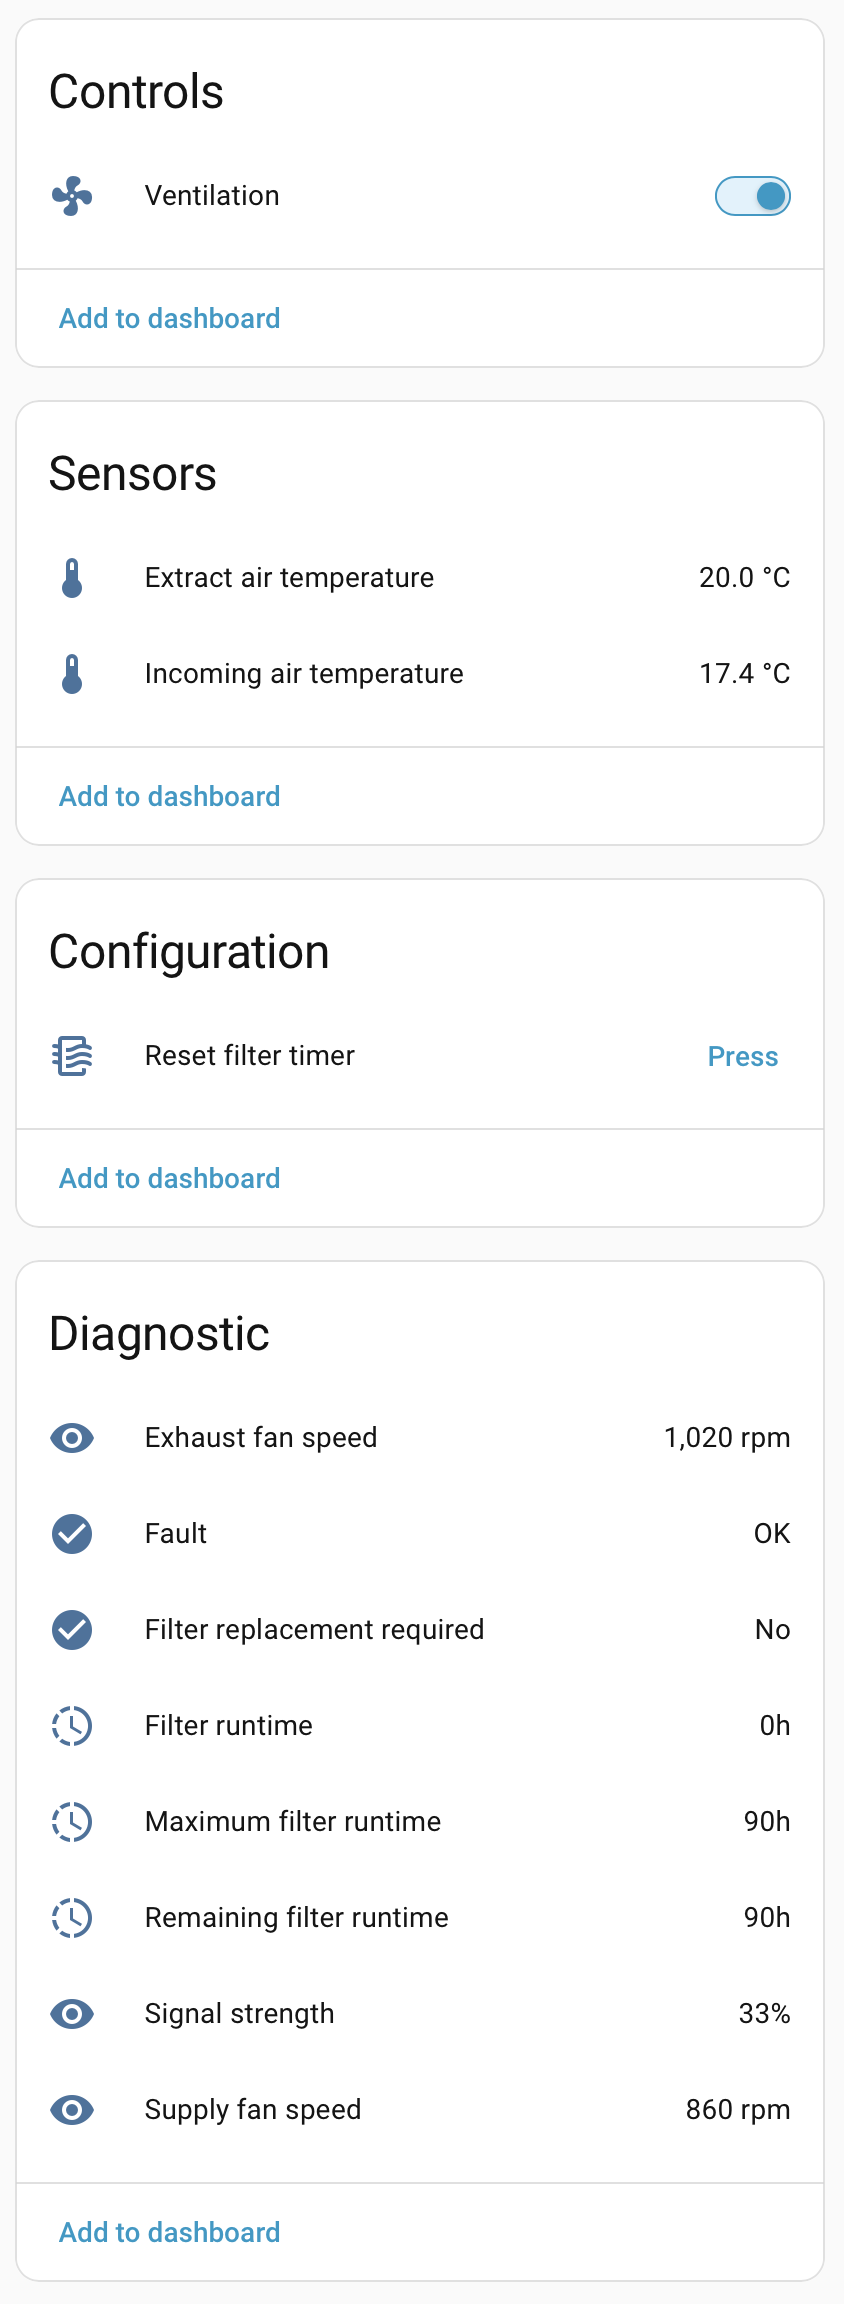
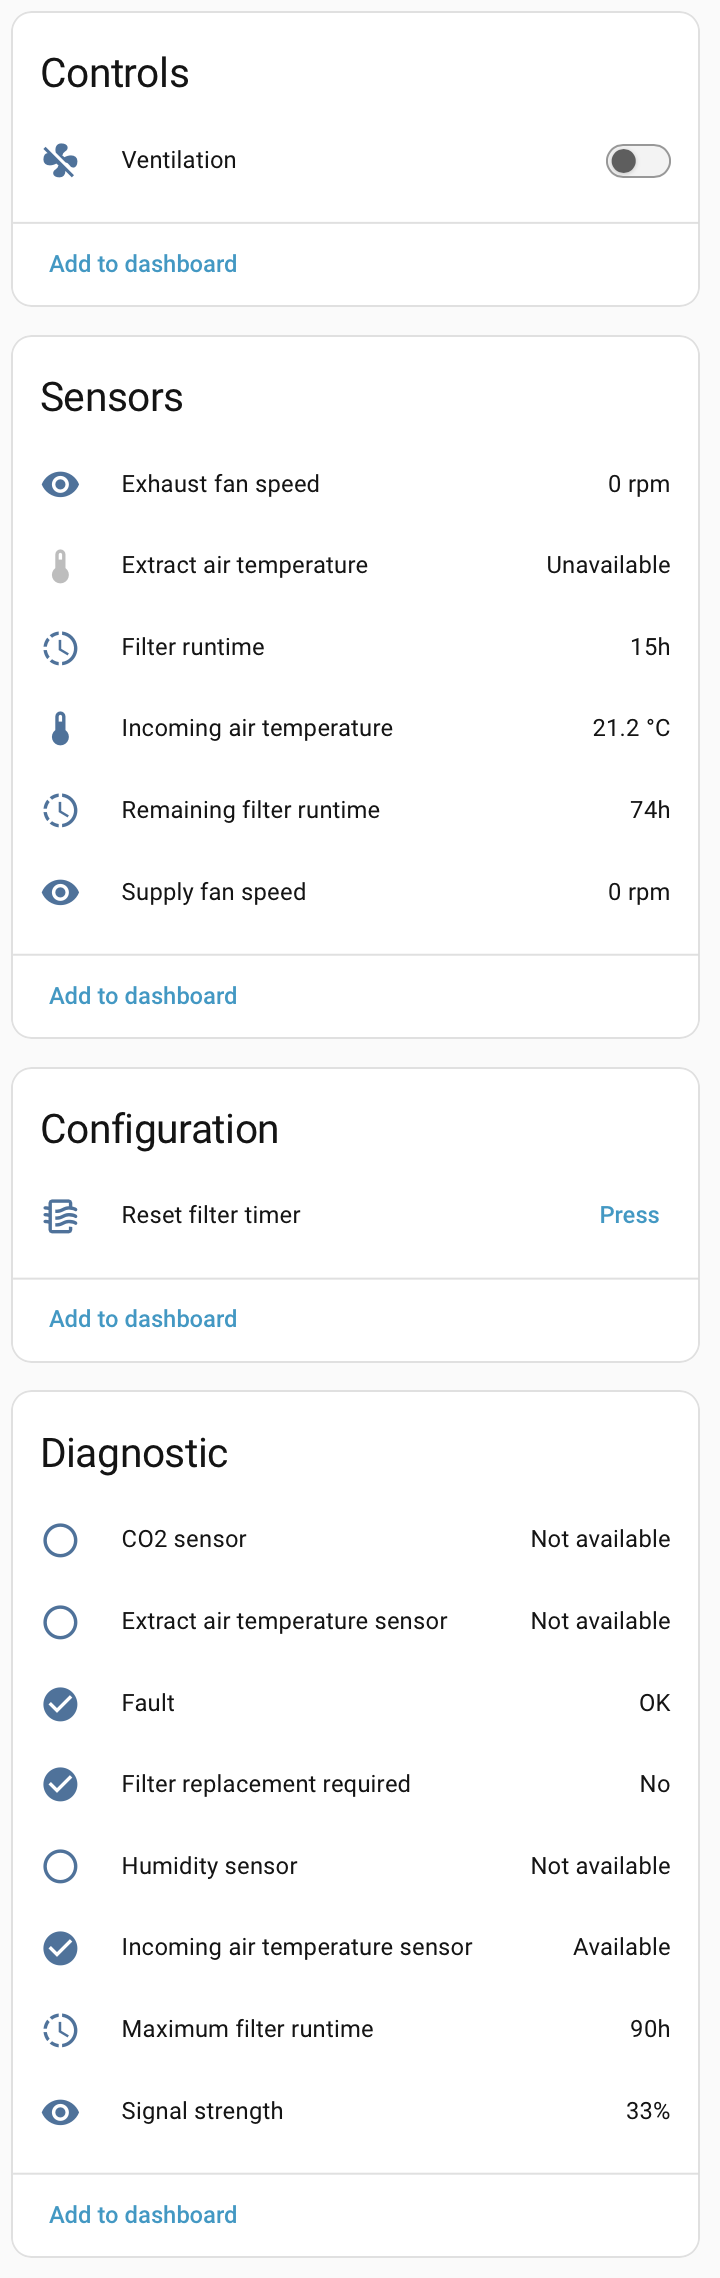
documentation auto sensor mode

diff --git a/README.md b/README.md
@@ -110,7 +110,15 @@ The ventilation fan entity provides Home Assistant's standard power and speed
 controls. Levels 1–4 can be selected directly as named presets or set as
 25–100% fan speed.
 
+Without an optional sensor board, the available presets are Level 1 through
+Level 4:
+
 <img src="docs/images/ventilation-dialog.png" alt="Ventilation level control with presets in Home Assistant" width="430">
+
+When the unit reports an available humidity or CO2 sensor, the additional
+**Auto (sensor)** preset is shown:
+
+<img src="docs/images/ventilation-dialog-with-sensor.png" alt="Ventilation control with the Auto sensor preset in Home Assistant" width="430">
 
 Firmware and valid hardware versions are displayed in the ventilation unit's
 device information. Optional values are shown only when the connected product

diff --git a/docs/screenshots.md b/docs/screenshots.md
@@ -44,9 +44,15 @@ and the filter reset action.
 ### Ventilation control
 
 The fan entity supports power control, fan speed from 25–100%, and the named
-presets Level 1 through Level 4.
+presets Level 1 through Level 4. These are the available presets when no
+optional sensor board is detected:
 
 <img src="images/ventilation-dialog.png" alt="Ventilation level control with presets in Home Assistant" width="430">
+
+When the unit reports an available humidity or CO2 sensor, the additional
+**Auto (sensor)** preset is available:
+
+<img src="images/ventilation-dialog-with-sensor.png" alt="Ventilation control with the Auto sensor preset in Home Assistant" width="430">
 
 ### Entity overview
 
